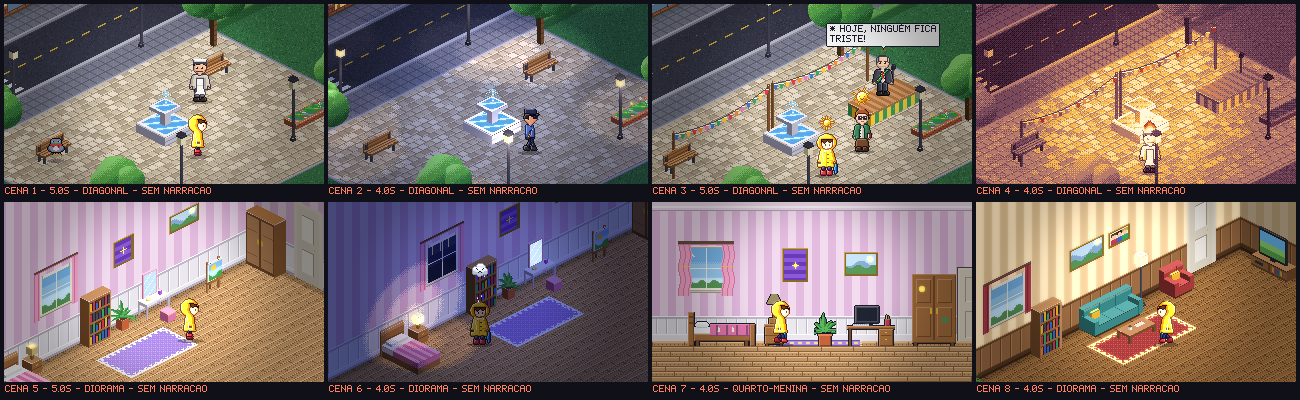
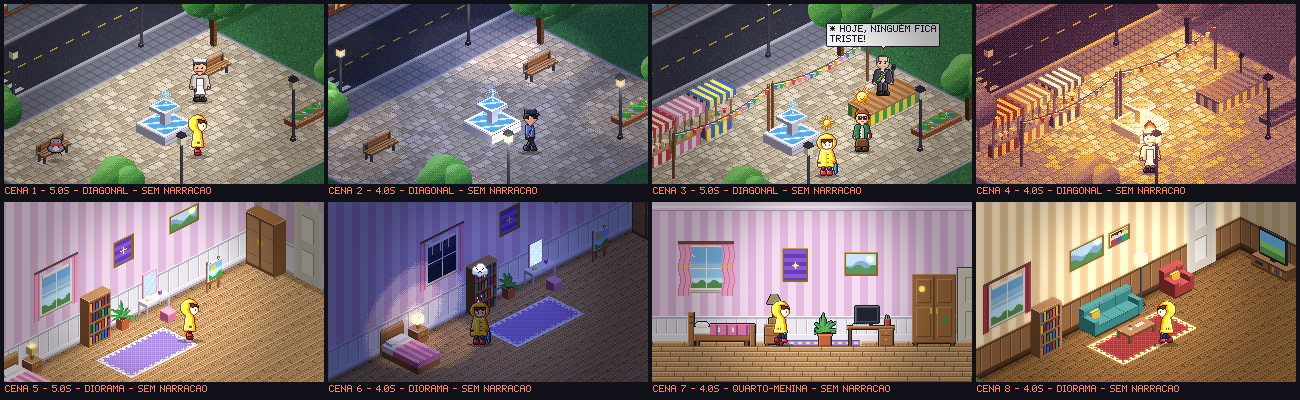
Praça na biblioteca: padrão e decorada (bandeirinhas, palanque e barracas de pipoca, doces e jogos)
Claude-Session: https://claude.ai/code/session_01L9V3oFJb1ahcbymZHH8qbL

Changed region(s): [[0.4923, 0.18, 0.5846, 0.42], [0.7385, 0.15, 0.8308, 0.39]]

diff --git a/motor/cenarios/comodoDiagonal.js b/motor/cenarios/comodoDiagonal.js
@@ -298,7 +298,7 @@ const MOVEIS = {
     }, lado: '#e0d8c8', topo: '#f4f0e8' });
     L.caixa(i1 - 0.1, i1, j0, j1, 10, 2, MAD.base);
   } },
-  // ===== PROTÓTIPO (não aprovado): praça (ao ar livre)
+  // ===== praça (aprovada; usada como sprites na rua diagonal e no diorama ao ar livre)
   fonte: { di: 1.8, dj: 1.8, f(L, m, ctx) {
     const { i0, i1, j0, j1 } = m, ci = (i0 + i1) / 2, cj = (j0 + j1) / 2, seca = !!ctx.op.seca;
     const pedra = ['#e0e0ea', '#b8b8ca', '#8a8aa0'];
@@ -378,6 +378,33 @@ const MOVEIS = {
         const c = cores[Math.floor(k / 6) % cores.length];
         for (let j = 1; j <= 6; j++) { const meia = Math.round(2.5 * (1 - j / 7)); for (let i = -meia; i <= meia; i++) L.pintar(p.x + i, p.y + j, j === 1 ? '#ffffff' : c, ci, b, h - j, 1, 1); }
       }
+    }
+  } },
+  // barraca de festa: balcão, 4 varas e toldo listrado. op.produto: 'pipoca' | 'doces' | 'jogos'; op.luzes: lâmpadas no toldo
+  barraca: { di: 1.0, dj: 1.6, f(L, m, ctx) {
+    const { i0, i1, j0, j1 } = m, op = ctx.op;
+    const TEMAS_B = { pipoca: ['#f4f0e8', '#d83a3a', '#a82a2a'], doces: ['#f4f0e8', '#f07ab0', '#c05a88'], jogos: ['#f8d848', '#3a6ad8', '#2a4aa8'] };
+    const [cl, cf, ce] = TEMAS_B[op.produto] || TEMAS_B.pipoca;
+    for (const [a, b] of [[i0, j0], [i1 - 0.07, j0], [i0, j1 - 0.07], [i1 - 0.07, j1 - 0.07]]) L.caixa(a, a + 0.07, b, b + 0.07, 0, 36, MAD.base);
+    // balcão na frente
+    L.caixa(i1 - 0.4, i1, j0 + 0.05, j1 - 0.05, 0, 13, { frente: (u, t) => (t > 10 ? MAD.claro : Math.floor(u * 4) % 2 ? cl : cf), lado: (u, t) => (t > 10 ? MAD.base : ce), topo: MAD.claro });
+    // produtos no balcão
+    const r = rng(ctx.semente + 41);
+    for (let k = 0; k < 4; k++) {
+      const b = j0 + 0.25 + k * ((j1 - j0 - 0.5) / 3), a = i1 - 0.22;
+      if (op.produto === 'doces') L.caixa(a - 0.08, a + 0.08, b - 0.08, b + 0.08, 13, 4 + (k % 2) * 2, ['#f8a8d8', '#80d8f8', '#f8e060', '#a8f088'][k]);
+      else if (op.produto === 'jogos') { L.caixa(a - 0.06, a + 0.06, b - 0.06, b + 0.06, 13, 3, '#f4f0e8'); L.caixa(a - 0.05, a + 0.05, b - 0.05, b + 0.05, 16, 3, ['#e83a3a', '#3aa860', '#f0b830', '#8a5ad8'][k]); }
+      else { L.caixa(a - 0.09, a + 0.09, b - 0.09, b + 0.09, 13, 5, { frente: (u, t) => (t > 3 ? '#fff4d0' : u * 16 % 3 < 1.5 ? '#d83a3a' : '#f4f0e8'), lado: '#e8d8b0', topo: () => (r() < 0.5 ? '#fff8e0' : '#f0d890') }); }
+    }
+    // placa pequena em cima do balcão (de pé, no fundo)
+    // toldo listrado com babado
+    L.caixa(i0 - 0.12, i1 + 0.15, j0 - 0.1, j1 + 0.1, 36, 4, {
+      frente: (u, t) => (Math.floor(u * 5) % 2 ? cl : cf), lado: (u) => (Math.floor(u * 5) % 2 ? cl : ce),
+      topo: (a, b) => (Math.floor(b * 5) % 2 ? cl : cf) });
+    L.caixa(i1 + 0.12, i1 + 0.15, j0 - 0.1, j1 + 0.1, 32, 4, { frente: (u, t) => ((Math.floor(u * 10) % 2 === 0 && t < 2) ? null : Math.floor(u * 5) % 2 ? cl : cf), lado: () => ce, topo: () => cf });
+    if (op.luzes) for (let k = 0; k < 7; k++) {
+      const b = j0 + (k / 6) * (j1 - j0), p = L.proj(i1 + 0.16, b, 31);
+      L.pintar(p.x, p.y, ['#fff0a0', '#ffb0c0', '#a0e0ff'][k % 3], i1 + 0.2, b, 31, 2, 1);
     }
   } },
 };

diff --git a/motor/sprites-praca.js b/motor/sprites-praca.js
@@ -1,4 +1,4 @@
-// PROTÓTIPO (não aprovado): objetos da praça para a RUA DIAGONAL, desenhados igual aos móveis do diorama.
+// Objetos da praça (aprovados) para a RUA DIAGONAL, desenhados igual aos móveis do diorama.
 // Posição no roteiro (x, z) = canto da FRENTE do objeto (o ponto mais baixo na tela). O objeto se estende
 // para a direita (+x, "largura") e para o fundo (+z, "fundo"). A ordem de desenho usa o centro do objeto,
 // então os personagens passam na frente ou atrás dele.
@@ -38,4 +38,8 @@ registrarSprites({
   'canteiro-iso': () => iso({ verde: { tipo: 'canteiro-flores' }, murcho: { tipo: 'canteiro-flores', op: { murcho: true } } }),
   'palanque-iso': () => iso({ parado: { tipo: 'palanque-d' } }),
   'bandeirinhas-iso': () => iso({ parado: { tipo: 'bandeirinhas' } }),
+  // barracas de festa (estado "acesa": lâmpadas no toldo, para a festa à noite)
+  'barraca-pipoca': () => iso({ parado: { tipo: 'barraca', op: { produto: 'pipoca' } }, acesa: { tipo: 'barraca', op: { produto: 'pipoca', luzes: true } } }),
+  'barraca-doces': () => iso({ parado: { tipo: 'barraca', op: { produto: 'doces' } }, acesa: { tipo: 'barraca', op: { produto: 'doces', luzes: true } } }),
+  'barraca-jogos': () => iso({ parado: { tipo: 'barraca', op: { produto: 'jogos' } }, acesa: { tipo: 'barraca', op: { produto: 'jogos', luzes: true } } }),
 });

diff --git a/CLAUDE.md b/CLAUDE.md
@@ -169,14 +169,17 @@ a virada vem a **~70%** e o resto é a solução e o fechamento.
   `bueiro-monstro` (parado/agarrar/enjoado/fechado), `cone-monstro` (personagem; dormindo), `sanduiche`,
   `lista-compras` (abrindo), `malinha`. Cenários na biblioteca: `praca-festa`, `praca-festa-noite`, `rua-festa`
   (diagonal), `morro-mirante`, `rua-monstros`. Recursos novos do motor: ação `trocar`, `"sobre"`, `"balancar"`, clima `calor`.
-- **Diagonal nova — PROTÓTIPO, NÃO aprovado** (teste em `projetos/prototipo-diagonal`, `previa.png`, imagens em `praca/`):
-  **praça na rua comercial** (opção `"rua": { "praca": { "x", "largura", "profundidade" } }` do `ruaDiagonal.js`, no lugar
-  do canteiro, de frente para os mesmos prédios; câmera `"z": -8.5` foca a praça) com objetos isométricos
-  (`motor/sprites-praca.js`: `fonte-iso` cheia/seca, `banco-iso`, `arvore-iso`/`-grande` verde/seca, `poste-iso`,
-  `poste-iso-aceso`, `canteiro-iso` verde/murcho, `palanque-iso`, `bandeirinhas-iso`; x/z = canto da frente; estado
-  inicial com `"pose"`). Cenários: `praca`, `praca-noite`, `praca-festa`, `praca-seca`. Também `quarto-menina` /
-  `quarto-menina-noite` (diorama e lateral) com móveis `penteadeira`, `pufe`, `cavalete`. Os postes de TODA a rua diagonal agora são o `poste-iso` (aceso à noite); `"rua": { "postes": "antigo" }` volta ao chapado. O modo `"exterior"` do
-  diorama (praça com prédios próprios) foi trocado pela praça na rua (o usuário preferiu os prédios de antes).
+- **Praça diagonal — APROVADA (na biblioteca)**: na rua comercial (opção `"rua": { "praca": { "x", "largura",
+  "profundidade" } }` do `ruaDiagonal.js`, de frente para os mesmos prédios; câmera `"z": -8.5` foca a praça).
+  **Padrão** (uso normal): `praca`, `praca-noite`. **Decorada** (festa): `praca-decorada`, `praca-decorada-noite`
+  (bandeirinhas, palanque — em cima `"y": 0.75` — e barracas). Para decorar uma cena, troque só o nome do cenário.
+  Objetos isométricos (`motor/sprites-praca.js`): `fonte-iso` cheia/seca, `banco-iso`, `arvore-iso`/`-grande`
+  verde/seca, `poste-iso`, `poste-iso-aceso`, `canteiro-iso` verde/murcho, `palanque-iso`, `bandeirinhas-iso`,
+  `barraca-pipoca`/`-doces`/`-jogos` (parado/acesa); x/z = canto da frente; estado inicial com `"pose"`.
+  Os postes de TODA a rua diagonal são o `poste-iso` (aceso à noite); `"rua": { "postes": "antigo" }` volta ao chapado.
+- **Protótipos NÃO aprovados** (teste em `projetos/prototipo-diagonal`, `previa.png`, imagens em `praca/`):
+  `praca-seca` (decorada com fonte seca etc., para a história do Dia do Sol) e `quarto-menina` / `quarto-menina-noite`
+  (diorama e lateral; móveis `penteadeira`, `pufe`, `cavalete`). O modo `"exterior"` do diorama existe mas não é usado.
 - **Arte do canal "Histórias em Pixel" (protótipo):** geradores de banner e ícone em `projetos/canal/arte/`
   (`banner.html`, `icone.html`, `gerar.mjs`); o `banner.png` ainda não foi substituído.
 - **Branch de trabalho único:** `claude/modest-hamilton-4p4851` (já reúne `jolly-archimedes`, `cool-noether`,

diff --git a/README.md b/README.md
@@ -366,6 +366,8 @@ Poses dos personagens (moradores e `menina-capa`): `"pose": "sentado"` (de frent
 
 Elemento preso em outro: `"sobre": { "id": "bia", "dx": 0.45, "dy": 2.75 }` — acompanha o dono (posição, lado e
 visibilidade); `dx` segue o lado para onde ele olha. Usado para o tempo na cabeça, guarda-chuva, fogo no chapéu etc.
+Praça (diagonal): `praca` / `praca-noite` (padrão) e `praca-decorada` / `praca-decorada-noite` (festa: bandeirinhas,
+palanque e barracas). Os objetos da praça (`fonte-iso`, `banco-iso`, `barraca-pipoca`...) usam x/z = canto da frente.
 `"balancar": true` faz o elemento boiar (sobe e desce devagar). Clima `"calor"`: ar quente subindo.
 
 ### Fundos
